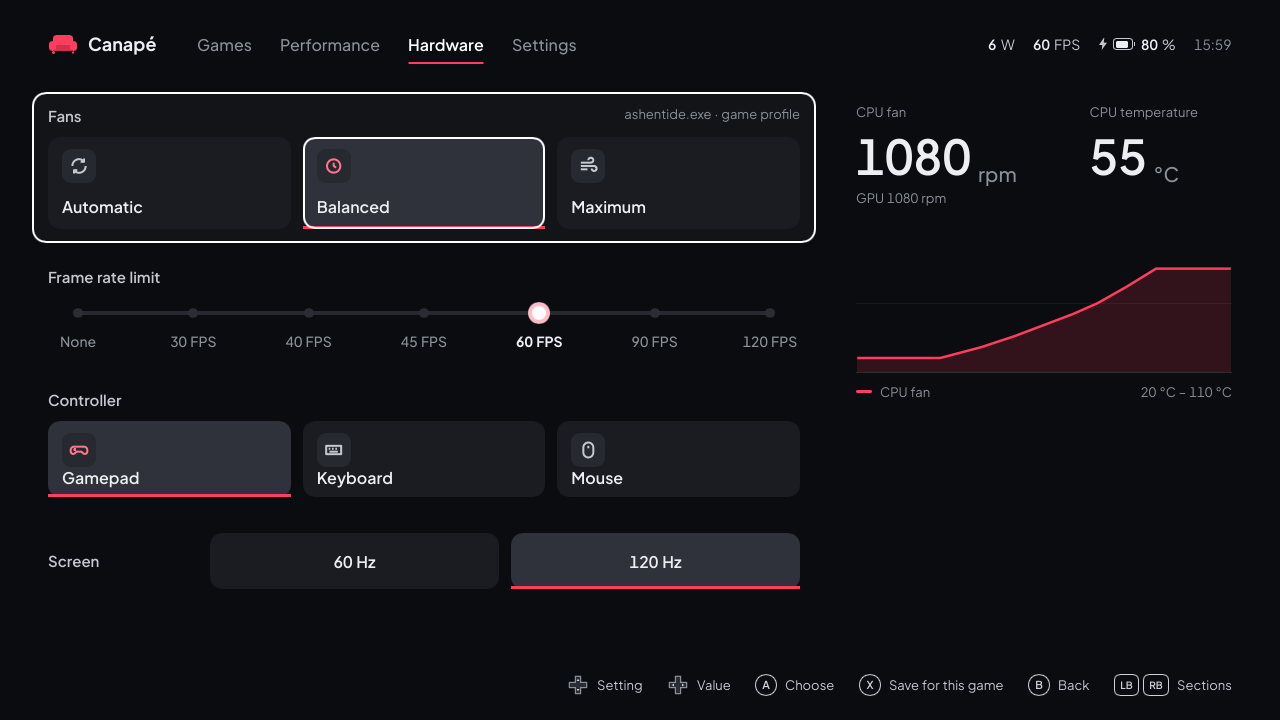
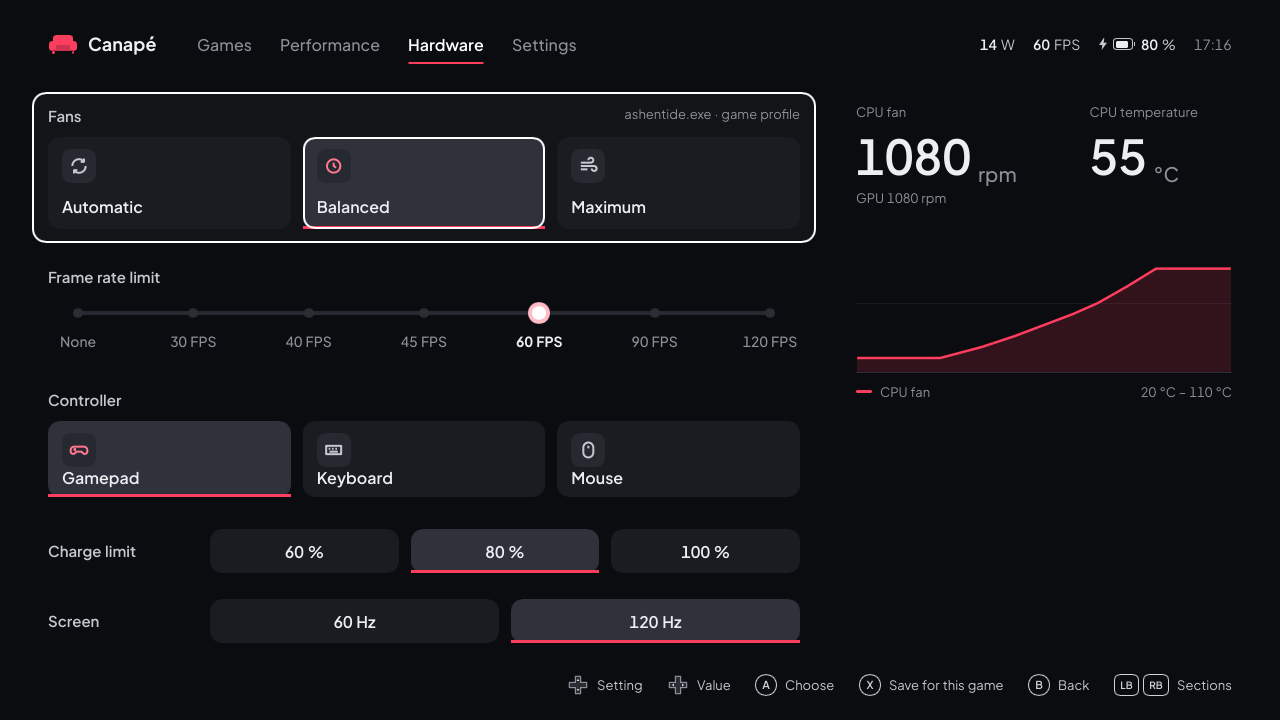
Show and set the battery charge limit in the shell and the widget
The status now carries the charge limit set through Canape
(battery_charge_limit, null until set: the firmware does not report it).
The Hardware page gains a compact row with 60, 80 and 100 % tiles; the
Screen row shrinks to the same height so the page still fits 1280x720.
The widget's Hardware tab gains a stepper over the same stops.

diff --git a/widget/CanapeWidget/WidgetPage.xaml b/widget/CanapeWidget/WidgetPage.xaml
@@ -369,7 +369,8 @@
                         </StackPanel>
                     </StackPanel>
 
-                    <!-- Hardware: fans, frame rate cap, controller, for the game in front. -->
+                    <!-- Hardware: fans, frame rate cap, controller, for the game in front;
+                         battery charge limit, for the device. -->
                     <StackPanel x:Name="HardwarePane" Spacing="10" Visibility="Collapsed">
                         <StackPanel Spacing="8">
                             <Grid>
@@ -432,6 +433,25 @@
                                 </TextBlock.RenderTransform>
                             </TextBlock>
                             <Button x:Name="LimitUp" Grid.Column="3" Style="{StaticResource Chevron}" Content="›" Tag="1" Click="OnLimitStep" IsEnabled="False" />
+                        </Grid>
+
+                        <Grid Height="40">
+                            <Grid.ColumnDefinitions>
+                                <ColumnDefinition Width="*" />
+                                <ColumnDefinition Width="Auto" />
+                                <ColumnDefinition Width="84" />
+                                <ColumnDefinition Width="Auto" />
+                            </Grid.ColumnDefinitions>
+                            <TextBlock x:Uid="ChargeLimitLabel" FontSize="14" VerticalAlignment="Center" TextTrimming="CharacterEllipsis" />
+                            <Button x:Name="ChargeDown" Grid.Column="1" Style="{StaticResource Chevron}" Content="‹" Tag="-1" Click="OnChargeStep" IsEnabled="False" />
+                            <TextBlock x:Name="ChargeValue" Grid.Column="2" Text="—" FontSize="15" FontFamily="{StaticResource JakartaSemiBold}" FontWeight="SemiBold"
+                                       Foreground="{StaticResource AccentTextBrush}" TextAlignment="Center" VerticalAlignment="Center"
+                                       Typography.NumeralAlignment="Tabular">
+                                <TextBlock.RenderTransform>
+                                    <TranslateTransform />
+                                </TextBlock.RenderTransform>
+                            </TextBlock>
+                            <Button x:Name="ChargeUp" Grid.Column="3" Style="{StaticResource Chevron}" Content="›" Tag="1" Click="OnChargeStep" IsEnabled="False" />
                         </Grid>
 
                         <StackPanel Spacing="8">

diff --git a/widget/CanapeWidget/WidgetPage.xaml.cs b/widget/CanapeWidget/WidgetPage.xaml.cs
@@ -37,6 +37,9 @@ namespace CanapeWidget
         // Stops of the frame rate cap, as on the shell's Hardware page; 0 is none.
         private static readonly int[] LimitStops = { 0, 30, 40, 45, 60, 90, 120 };
 
+        // Stops of the battery charge limit, as on the shell's Hardware page.
+        private static readonly int[] ChargeStops = { 60, 80, 100 };
+
         // Opens the shell (see the identity package's canape protocol).
         private static readonly Uri ShellUri = new Uri("canape://home");
 
@@ -314,6 +317,9 @@ namespace CanapeWidget
             LimitValue.Text = Dash;
             LimitDown.IsEnabled = false;
             LimitUp.IsEnabled = false;
+            ChargeValue.Text = Dash;
+            ChargeDown.IsEnabled = false;
+            ChargeUp.IsEnabled = false;
             ShowSaveButtons(false);
             StepLabel.Text = S("PowerLimitLabel");
             StepValue.Text = Dash;
@@ -699,7 +705,7 @@ namespace CanapeWidget
             ConflictText.Text = conflicts.Length > 0 ? F(conflicts.Length == 1 ? "ConflictOne" : "Conflicts", string.Join(", ", conflicts)) : "";
         }
 
-        /// <summary>Fans, frame rate cap and controller, as the service has them.</summary>
+        /// <summary>Fans, frame rate cap, controller and charge limit, as the service has them.</summary>
         private void ShowHardware(JsonObject status)
         {
             // No custom curve: the firmware's own (Auto). Custom curves that
@@ -720,6 +726,12 @@ namespace CanapeWidget
             Bump(LimitValue, limit > 0 ? F("FormatFps", limit) : S("FpsLimitNone"));
             LimitDown.IsEnabled = limit > 0;
             LimitUp.IsEnabled = limit < LimitStops[LimitStops.Length - 1];
+
+            // Unknown until set through Canape: the firmware does not report it.
+            var charge = Integer(status, "battery_charge_limit");
+            Bump(ChargeValue, charge.HasValue ? F("FormatPercent", charge.Value) : Dash);
+            ChargeDown.IsEnabled = (charge ?? ChargeStops[ChargeStops.Length - 1]) > ChargeStops[0];
+            ChargeUp.IsEnabled = charge.HasValue && charge.Value < ChargeStops[ChargeStops.Length - 1];
 
             var controller = Text(status, "controller_mode");
             foreach (var button in new[] { GamepadButton, KeyboardButton, MouseButton })
@@ -866,6 +878,20 @@ namespace CanapeWidget
                 : LimitStops.Where(t => t < limit).DefaultIfEmpty(0).Last();
             var request = Request("set_fps_limit");
             request["fps"] = next > 0 ? JsonValue.CreateNumberValue(next) : JsonValue.CreateNullValue();
+            Send(request);
+        }
+
+        /// <summary>‹ or ›: the next stop of the battery charge limit.</summary>
+        private void OnChargeStep(object sender, RoutedEventArgs e)
+        {
+            var delta = int.Parse((string)((FrameworkElement)sender).Tag, CultureInfo.InvariantCulture);
+            var top = ChargeStops[ChargeStops.Length - 1];
+            var charge = Integer(lastStatus, "battery_charge_limit") ?? top;
+            var next = delta > 0
+                ? ChargeStops.Where(t => t > charge).DefaultIfEmpty(top).First()
+                : ChargeStops.Where(t => t < charge).DefaultIfEmpty(ChargeStops[0]).Last();
+            var request = Request("set_battery_charge_limit");
+            request["percent"] = JsonValue.CreateNumberValue(next);
             Send(request);
         }
 

diff --git a/crates/canape-core/src/protocol.rs b/crates/canape-core/src/protocol.rs
@@ -171,6 +171,9 @@ pub struct Status {
     pub fps_limit: Option<u32>,
     #[serde(default)]
     pub controller_mode: Option<ControllerMode>,
+    /// Battery charge limit set through Canape, in percent, if any.
+    #[serde(default)]
+    pub battery_charge_limit: Option<u8>,
 }
 
 /// What [`Request::SaveForegroundProfile`] saves.
@@ -261,6 +264,7 @@ mod tests {
         assert_eq!(status.tdp_min_watts, None);
         assert!(status.fan_curves.is_empty());
         assert_eq!(status.controller_mode, None);
+        assert_eq!(status.battery_charge_limit, None);
     }
 
     #[test]
@@ -273,6 +277,7 @@ mod tests {
             cpu_fan_rpm: Some(3200),
             fps_limit: Some(40),
             controller_mode: Some(ControllerMode::Gamepad),
+            battery_charge_limit: Some(80),
             ..Status::default()
         });
         let line = encode(&response).unwrap();

diff --git a/crates/canape-service/src/handler.rs b/crates/canape-service/src/handler.rs
@@ -428,6 +428,7 @@ impl Handler {
             fan_preset: FanPreset::of(&self.fan_curves),
             fps_limit: self.fps_limit,
             controller_mode: self.controller_mode,
+            battery_charge_limit: self.battery_limit,
         }
     }
 
@@ -1009,6 +1010,17 @@ mod tests {
         let mut restored = handler();
         assert!(restored.restore(&saved).is_empty());
         assert_eq!(restored.saved(), saved);
+        assert_eq!(restored.status().battery_charge_limit, Some(80));
+    }
+
+    #[test]
+    fn rejects_a_charge_limit_out_of_range() {
+        let mut h = handler();
+        assert!(matches!(
+            h.handle(Request::SetBatteryChargeLimit { percent: 20 }),
+            Response::Error { .. }
+        ));
+        assert_eq!(h.status().battery_charge_limit, None);
     }
 
     #[test]

diff --git a/crates/canape-shell/src/main.rs b/crates/canape-shell/src/main.rs
@@ -358,6 +358,14 @@ fn connect(ui: &AppWindow, link: &Link) {
             link.send(Request::SetControllerMode { mode });
         }
     });
+    app.on_set_charge_limit({
+        let link = link.clone();
+        move |percent| {
+            link.send(Request::SetBatteryChargeLimit {
+                percent: percent.clamp(40, 100) as u8,
+            })
+        }
+    });
     app.on_save_hardware_profile({
         let link = link.clone();
         move || {

diff --git a/crates/canape-shell/src/link.rs b/crates/canape-shell/src/link.rs
@@ -429,6 +429,7 @@ pub fn status_view(status: Option<&Status>) -> StatusView {
             None => "",
         }
         .into(),
+        charge_limit: s.battery_charge_limit.map_or(0, i32::from),
     }
 }
 

diff --git a/docs/developer-guide.fr.md b/docs/developer-guide.fr.md
@@ -185,9 +185,10 @@ La page 3 (`ui/hardware.slint`) ne fait qu'envoyer des requêtes : le service va
 | Garder ces réglages pour ce jeu | `save-hardware-profile()` | `save_profile` pour `status.foreground` : le profil existant (ou un nouveau avec `status.auto_tdp`) avec `fan_curves: Some(status.fan_curves)` (un ensemble vide veut dire « les courbes du firmware » pour ce jeu), `fps_limit: status.fps_limit` et `refresh_hz` (la fréquence actuelle de l'écran) |
 | Puces de l'écran | `set-refresh(hz)` | aucune : le shell change l'écran lui-même (`screen.rs`, `canape_hw::display::Screen`) et enregistre `refresh_hz` dans `shell.json` |
 | Tuiles de la manette | `set-controller(mode)` | `set_controller_mode` |
+| Puces de la limite de charge | `set-charge-limit(percent)` | `set_battery_charge_limit` ; puces 60, 80, 100 |
 
 - `hardware.rs` : `preset_name()` traduit `status.fan_curves` en tuile sélectionnée : `""` si vide (courbes du firmware), la clé d'un préréglage si chaque courbe personnalisée lui est égale, `custom` sinon. `curve_paths()` transforme la courbe du CPU en commandes `Path` de la ligne et de l'aire du cadre (viewbox 90 × 100 : une unité par °C de 20 à 110 °C, une par pour cent), prolongée à plat avant le premier point et après le dernier. Les deux sont couvertes par des tests unitaires.
-- `link.rs` (`status_view`) : `cpu_fan_rpm` / `gpu_fan_rpm` (−1 si inconnus), le nom du préréglage, les chemins de la courbe du CPU (vides sans courbe CPU personnalisée), `fps_limit` (0 pour aucune) et `controller_mode` (`""` tant que Canapé ne l'a pas réglé, donc aucune tuile sélectionnée). `tdp_floor()` / `tdp_ceiling()` lisent `tdp_min_watts` / `tdp_max_watts` (repli sur `MIN_WATTS` 5 et `MAX_WATTS` 35 dans `main.rs`) et bornent tous les réglages de puissance du shell.
+- `link.rs` (`status_view`) : `cpu_fan_rpm` / `gpu_fan_rpm` (−1 si inconnus), le nom du préréglage, les chemins de la courbe du CPU (vides sans courbe CPU personnalisée), `fps_limit` (0 pour aucune), `controller_mode` (`""` tant que Canapé ne l'a pas réglé, donc aucune tuile sélectionnée) et `battery_charge_limit` (0 tant que Canapé ne l'a pas réglée, de même). `tdp_floor()` / `tdp_ceiling()` lisent `tdp_min_watts` / `tdp_max_watts` (repli sur `MIN_WATTS` 5 et `MAX_WATTS` 35 dans `main.rs`) et bornent tous les réglages de puissance du shell.
 - La page Profils et le bouton **Profil du jeu** du banc d'essai conservent les `fan_curves`, `fps_limit` et `refresh_hz` d'un profil existant.
 - **Fréquence de l'écran** (`screen.rs`) : les modes d'affichage appartiennent à la session de l'utilisateur, c'est donc le shell, pas le service, qui les change. `canape_hw::display::Screen::internal()` retient le chemin actif dont la technologie de sortie est interne ou DisplayPort intégré (`QueryDisplayConfig`, puis le nom GDI de la source), `rates()` liste les fréquences à la résolution et à la profondeur actuelles (`EnumDisplaySettingsExW`), `set_refresh()` appelle `ChangeDisplaySettingsExW` avec `CDS_UPDATEREGISTRY`. Le service ne fait que stocker `Profile::refresh_hz` ; à chaque statut, le shell cherche la fréquence du profil actif et `screen::follow` ne change l'écran qu'au changement de profil (`Follow::step`, testé) : entrer dans un profil mémorise la fréquence remplacée, en sortir revient à la fréquence choisie sur la page (`refresh_hz` de `shell.json`, 0 = aucune) ou à celle mémorisée. La page relit la fréquence actuelle tous les 5 statuts. Hors Windows, `CANAPE_MOCK_SCREEN=60,120` simule un écran pour les captures.
 - **Boutons de l'Ally** (`buttons.rs`, Windows) : un thread lance `canape_hw::listen_buttons`, qui ouvre la même interface HID que le mode de la manette (VID `0x0B05`, PID `0x1ABE`/`0x1B4C`, rapport de fonctionnalité `0x5A`), envoie le rapport de réveil, puis lit les rapports d'entrée : code 166 Command Center, 56 ou 147 Armoury, 165 / 0 palettes arrière enfoncées / relâchées, 236 ignoré (`pad::parse_input`, testé). Armoury → `instance::bring_to_front()` (un appui Alt synthétique, puis `SetForegroundWindow`), ou la section Jeux si Canapé est déjà devant ; Command Center → Win+G (`SendInput`). Les codes inconnus sont journalisés. Après une erreur, le thread réessaie toutes les 5 s, toutes les 60 s quand aucune interface n'existe. `ally_buttons: false` dans `shell.json` désactive les actions.
@@ -273,7 +274,7 @@ sequenceDiagram
 | `set_performance_mode` | `mode` : `silent` \| `performance` \| `turbo` \| `manual` | `ok` / `error` | Désactive l'auto TDP. Un mode firmware remet `tdp_watts` à `null`. Le firmware abandonne les courbes de ventilateurs personnalisées à chaque écriture du mode : le service les réécrit (une courbe qu'il ne peut pas réécrire est oubliée). Refusé pendant un banc d'essai. |
 | `set_tdp` | `watts: u32` | `ok` / `error` | TDP manuel (sPPT, SPL, fPPT), mode `manual`, auto TDP désactivé. Refusé hors de la plage du modèle et pendant un banc d'essai. |
 | `set_auto_tdp` | `settings: AutoTdpSettings` | `ok` / `error` | Active (ou désactive avec `enabled: false`) l'auto TDP. `min_watts`, `max_watts` et `battery_max_watts` sont bornés à la plage du modèle ; le statut et le profil gardent les valeurs bornées. Pendant un profil, modifie le profil. Refusé pendant un banc d'essai. |
-| `set_battery_charge_limit` | `percent: u8` (40 à 100) | `ok` / `error` | Limite de charge de la batterie. |
+| `set_battery_charge_limit` | `percent: u8` (40 à 100) | `ok` / `error` | Limite de charge de la batterie. Enregistrée et réappliquée au démarrage ; visible dans `status.battery_charge_limit`. Globale, pas par profil. **Non testé sur l'appareil.** |
 | `foreground_app` | `exe: string \| null` | `ok` | Programme au premier plan (envoyé par le shell) ; applique ou quitte le profil correspondant. |
 | `save_profile` | `profile: Profile` | `ok` / `error` | Crée ou remplace le profil de `profile.exe` (casse ignorée) ; le réapplique s'il est actif. |
 | `delete_profile` | `exe: string` | `ok` | Supprime le profil ; rend la main à l'état général s'il était actif. |
@@ -372,6 +373,7 @@ Exemples :
 | `fan_curves` | `FanCurves` | Courbes personnalisées en vigueur (globales ou du profil actif) ; un ventilateur à `null` suit la courbe du mode. |
 | `fps_limit` | `u32 \| null` | Plafond de FPS posé par Canapé (`null` : aucun posé par Canapé ; le logiciel AMD peut en avoir un). |
 | `controller_mode` | `string \| null` | `gamepad`, `wasd`, `mouse`, ou `null` si Canapé ne l'a pas réglé. |
+| `battery_charge_limit` | `u8 \| null` | Limite de charge en pour cent, ou `null` si Canapé ne l'a pas réglée (le firmware ne la donne pas). Facultatif en entrée. |
 
 ### Types imbriqués
 

diff --git a/docs/developer-guide.en.md b/docs/developer-guide.en.md
@@ -185,9 +185,10 @@ Page 3 (`ui/hardware.slint`) only sends requests: the service validates and writ
 | Keep these settings for this game | `save-hardware-profile()` | `save_profile` for `status.foreground`: the existing profile (or a new one with `status.auto_tdp`) with `fan_curves: Some(status.fan_curves)` (an empty set means "the firmware's curves" for that game), `fps_limit: status.fps_limit` and `refresh_hz` (the screen's current rate) |
 | Screen chips | `set-refresh(hz)` | none: the shell switches the screen itself (`screen.rs`, `canape_hw::display::Screen`) and saves `refresh_hz` in `shell.json` |
 | Controller tiles | `set-controller(mode)` | `set_controller_mode` |
+| Charge limit chips | `set-charge-limit(percent)` | `set_battery_charge_limit`; chips 60, 80, 100 |
 
 - `hardware.rs`: `preset_name()` maps `status.fan_curves` to the selected tile: `""` when empty (firmware curves), a preset key when every custom curve equals that preset, `custom` otherwise. `curve_paths()` turns the CPU curve into the line and area `Path` commands of the panel (viewbox 90 × 100: one unit per °C from 20 to 110 °C, one per percent), held flat before the first and after the last point. Both are unit-tested.
-- `link.rs` (`status_view`): `cpu_fan_rpm` / `gpu_fan_rpm` (−1 when unknown), the preset name, the CPU curve paths (empty without a custom CPU curve), `fps_limit` (0 for none) and `controller_mode` (`""` when Canapé has not set it, so no tile is selected). `tdp_floor()` / `tdp_ceiling()` read `tdp_min_watts` / `tdp_max_watts` (fallback `MIN_WATTS` 5 and `MAX_WATTS` 35 in `main.rs`) and bound every wattage stepper of the shell.
+- `link.rs` (`status_view`): `cpu_fan_rpm` / `gpu_fan_rpm` (−1 when unknown), the preset name, the CPU curve paths (empty without a custom CPU curve), `fps_limit` (0 for none), `controller_mode` (`""` when Canapé has not set it, so no tile is selected) and `battery_charge_limit` (0 when Canapé has not set it, likewise). `tdp_floor()` / `tdp_ceiling()` read `tdp_min_watts` / `tdp_max_watts` (fallback `MIN_WATTS` 5 and `MAX_WATTS` 35 in `main.rs`) and bound every wattage stepper of the shell.
 - The Profiles page and the bench's **Save for the game** keep the `fan_curves`, `fps_limit` and `refresh_hz` of an existing profile.
 - **Screen refresh rate** (`screen.rs`): display modes belong to the user's session, so the shell, not the service, switches them. `canape_hw::display::Screen::internal()` picks the active path whose output technology is internal or embedded DisplayPort (`QueryDisplayConfig`, then the source's GDI name), `rates()` lists the rates at the current resolution and depth (`EnumDisplaySettingsExW`), `set_refresh()` calls `ChangeDisplaySettingsExW` with `CDS_UPDATEREGISTRY`. `Profile::refresh_hz` is only stored by the service; at each status push the shell looks up the active profile's rate and `screen::follow` switches on a change of profile only (`Follow::step`, unit-tested): entering a profile remembers the rate it replaces, leaving it goes back to the rate picked on the page (`shell.json` `refresh_hz`, 0 = none) or to that remembered rate. The page re-reads the current rate every 5 pushes. Off Windows, `CANAPE_MOCK_SCREEN=60,120` fakes a screen for screenshots.
 - **Ally buttons** (`buttons.rs`, Windows): a thread runs `canape_hw::listen_buttons`, which opens the same HID interface as the controller mode (VID `0x0B05`, PID `0x1ABE`/`0x1B4C`, feature report `0x5A`), sends the wake-up report, then reads input reports: code 166 Command Center, 56 or 147 Armoury, 165 / 0 back paddles down / up, 236 ignored (`pad::parse_input`, unit-tested). Armoury → `instance::bring_to_front()` (a synthetic Alt tap, then `SetForegroundWindow`) or the Games section when already in front; Command Center → Win+G (`SendInput`). Unknown codes are logged. After an error the thread retries every 5 s, every 60 s when no interface exists. `shell.json` `ally_buttons: false` turns the actions off.
@@ -273,7 +274,7 @@ sequenceDiagram
 | `set_performance_mode` | `mode`: `silent` \| `performance` \| `turbo` \| `manual` | `ok` / `error` | Turns auto TDP off. A firmware mode resets `tdp_watts` to `null`. The firmware drops custom fan curves on a mode write: the service writes them again (a curve it cannot write again is forgotten). Rejected during a bench. |
 | `set_tdp` | `watts: u32` | `ok` / `error` | Manual TDP (sPPT, SPL, fPPT), `manual` mode, auto TDP off. Rejected outside the model's range and during a bench. |
 | `set_auto_tdp` | `settings: AutoTdpSettings` | `ok` / `error` | Turns auto TDP on (or off with `enabled: false`). `min_watts`, `max_watts` and `battery_max_watts` are clamped to the model's range; the status and the profile keep the clamped values. During a profile, changes the profile. Rejected during a bench. |
-| `set_battery_charge_limit` | `percent: u8` (40 to 100) | `ok` / `error` | Battery charge limit. |
+| `set_battery_charge_limit` | `percent: u8` (40 to 100) | `ok` / `error` | Battery charge limit. Saved and re-applied at startup; shown in `status.battery_charge_limit`. Global, not per profile. **Not tested on the device.** |
 | `foreground_app` | `exe: string \| null` | `ok` | Foreground program (sent by the shell); applies or leaves the matching profile. |
 | `save_profile` | `profile: Profile` | `ok` / `error` | Creates or replaces the profile for `profile.exe` (case-insensitive); re-applies it if active. |
 | `delete_profile` | `exe: string` | `ok` | Deletes the profile; hands back to the global state if it was active. |
@@ -372,6 +373,7 @@ Examples:
 | `fan_curves` | `FanCurves` | Custom curves in effect (global or the active profile's); a `null` fan follows the mode's curve. |
 | `fps_limit` | `u32 \| null` | Frame rate cap set through Canapé (`null`: none set by Canapé; the AMD software may still have one). |
 | `controller_mode` | `string \| null` | `gamepad`, `wasd`, `mouse`, or `null` if Canapé has not set it. |
+| `battery_charge_limit` | `u8 \| null` | Charge limit in percent, or `null` if Canapé has not set it (the firmware does not report it). Optional on input. |
 
 ### Nested types
 

diff --git a/docs/user-guide.fr.md b/docs/user-guide.fr.md
@@ -277,7 +277,7 @@ Le fonctionnement détaillé est dans [Auto TDP et banc d'essai](auto-tdp.fr.md)
 
 > [!NOTE]
 
-Quatre rangées, parcourues comme la page Performance : haut et bas changent de rangée, gauche et droite se déplacent dans les tuiles (A choisit) ou changent la limite de FPS tout de suite, **X** enregistre les ventilateurs, la limite de FPS et la fréquence de l'écran pour le jeu au premier plan (voir [Ce jeu](#ce-jeu)). À droite : la vitesse du ventilateur CPU (et celle du GPU en dessous), en tr/min, la température CPU (avec la limite de température si elle est réglée) et la courbe du ventilateur CPU. « — » quand le firmware ne donne pas de mesure.
+Cinq rangées, parcourues comme la page Performance : haut et bas changent de rangée, gauche et droite se déplacent dans les tuiles (A choisit) ou changent la limite de FPS tout de suite, **X** enregistre les ventilateurs, la limite de FPS et la fréquence de l'écran pour le jeu au premier plan (voir [Ce jeu](#ce-jeu)). À droite : la vitesse du ventilateur CPU (et celle du GPU en dessous), en tr/min, la température CPU (avec la limite de température si elle est réglée) et la courbe du ventilateur CPU. « — » quand le firmware ne donne pas de mesure.
 
 **Ventilateurs**
 
@@ -323,6 +323,13 @@ Le mode est général (pas par jeu), mémorisé et réappliqué au démarrage du
 
 > [!WARNING]
 > Canapé lit la manette en XInput. En mode Clavier ou Souris, la manette ne devrait plus se présenter comme une manette Xbox, et Canapé risque de ne plus lui répondre : revenez à **Manette de jeu** avec l'écran tactile, ou avec `canape-ctl` (voir [Dépannage](#canape-ctl--parler-au-service)).
+
+**Limite de charge**
+
+Trois tuiles : 60, 80 et 100 %. La batterie s'arrête de charger à ce niveau, même branchée : une console qui vit sur son chargeur garde une batterie en meilleure santé à 60 ou 80 %. **100 %** retire la limite. La limite est générale (pas par jeu), mémorisée et réappliquée au démarrage du service. Canapé ne peut pas la relire dans le firmware : aucune tuile n'est sélectionnée tant que Canapé ne l'a pas réglée une fois (une limite réglée ailleurs, ou une autre valeur réglée avec `canape-ctl`, n'en sélectionne aucune).
+
+> [!NOTE]
+> Pas encore essayé sur l'Ally : l'écriture dans le firmware (`set_battery_charge_limit`) n'a été testée qu'avec le simulateur.
 
 **Écran**
 
@@ -436,7 +443,7 @@ Le widget donne les réglages rapides sans quitter le jeu. Toute la logique rest
 | Graphe | La dernière minute : la consommation en couleur d'accent, la limite en pointillés gris. |
 | Banc d'essai | Palier, puissance et temps restant pendant un banc d'essai (lancé depuis le shell). |
 | Onglet **Puissance** | Mode (Silencieux, Performance, Turbo, Auto ; la tuile choisie est blanche, un mode firmware coupe l'auto TDP). La valeur ‹ › : en auto TDP l'**objectif** (30 à 120 FPS), sinon la **limite de puissance** ±1 W, grisée en mode firmware et bornée par la plage du modèle. La plage de puissance sur l'échelle du modèle, avec la consommation du moment (lecture seule). |
-| Onglet **Matériel** | Ventilateurs : Auto (la courbe du firmware), Équilibré, Maximum ; « Courbes personnalisées » quand d'autres courbes sont en place. La limite de FPS ‹ › (Aucune, 30 à 120). La manette : Manette, Clavier, Souris. |
+| Onglet **Matériel** | Ventilateurs : Auto (la courbe du firmware), Équilibré, Maximum ; « Courbes personnalisées » quand d'autres courbes sont en place. La limite de FPS ‹ › (Aucune, 30 à 120). La manette : Manette, Clavier, Souris. La limite de charge de la batterie ‹ › (60, 80, 100 % ; « — » tant que Canapé ne l'a pas réglée, pas encore essayé sur l'Ally). |
 | Pied, toujours visible | **Enregistrer pour ce jeu** : l'onglet affiché dans le profil du jeu au premier plan (Puissance : l'auto TDP actuel ; Matériel : ventilateurs et limite de FPS ; le reste du profil est gardé). **Ouvrir Canapé**, qui ramène le shell devant. |
 
 Le widget n'a ni bouton de banc d'essai, ni liste des profils, ni réglage de la plage de puissance ou de la fréquence de l'écran : ces actions restent dans le shell. Son panneau suit le réglage de transparence de la Game Bar, et le widget suit la couleur d'accent choisie dans le shell. Taille par défaut 400 × 600, redimensionnable.

diff --git a/docs/user-guide.en.md b/docs/user-guide.en.md
@@ -277,7 +277,7 @@ How it works in detail: [Auto TDP and bench](auto-tdp.en.md).
 
 > [!NOTE]
 
-Four rows, used like the Performance page: up and down change row, left and right move along the tiles (A picks) or change the frame rate limit at once, **X** saves the fans, the frame rate limit and the screen refresh rate for the game in the foreground (see [This game](#this-game)). On the right: the CPU fan speed (and the GPU fan's below it), in rpm, the CPU temperature (with the temperature limit when set) and the CPU fan's curve. "—" when the firmware gives no reading.
+Five rows, used like the Performance page: up and down change row, left and right move along the tiles (A picks) or change the frame rate limit at once, **X** saves the fans, the frame rate limit and the screen refresh rate for the game in the foreground (see [This game](#this-game)). On the right: the CPU fan speed (and the GPU fan's below it), in rpm, the CPU temperature (with the temperature limit when set) and the CPU fan's curve. "—" when the firmware gives no reading.
 
 **Fans**
 
@@ -323,6 +323,13 @@ The mode is global (not per game), remembered and re-applied when the service st
 
 > [!WARNING]
 > Canapé reads the gamepad through XInput. In Keyboard or Mouse mode the controller should no longer show up as an Xbox gamepad, so Canapé may stop answering it: come back to **Gamepad** with the touch screen, or with `canape-ctl` (see [Troubleshooting](#canape-ctl-talking-to-the-service)).
+
+**Charge limit**
+
+Three tiles: 60, 80 and 100 %. The battery stops charging at that level, even plugged in: a console that lives on its charger keeps a healthier battery at 60 or 80 %. **100 %** removes the limit. The limit is global (not per game), remembered and re-applied when the service starts. Canapé cannot read it back from the firmware: no tile is selected until Canapé has set it once (a limit set elsewhere, or another value set with `canape-ctl`, selects none).
+
+> [!NOTE]
+> Not tried on the Ally yet: the firmware write (`set_battery_charge_limit`) has only been tested with the simulator.
 
 **Screen**
 
@@ -436,7 +443,7 @@ The widget gives you the quick settings without leaving the game. All the logic 
 | Graph | The last minute: power draw in the accent colour, the limit dashed grey. |
 | Bench | Step, wattage and time left during a bench (started from the shell). |
 | **Power** tab | Mode (Silent, Performance, Turbo, Auto; the chosen tile is white, a firmware mode turns auto TDP off). The ‹ value ›: under auto TDP the **target** (30 to 120 FPS), otherwise the **power limit** ±1 W, greyed out in a firmware mode and bounded by the model's range. The power range on the model's scale, with the current draw (read-only). |
-| **Hardware** tab | Fans: Auto (the firmware's curve), Balanced, Maximum; "Custom curves" when other curves are in place. The frame rate limit ‹ › (None, 30 to 120). The controller: Gamepad, Keyboard, Mouse. |
+| **Hardware** tab | Fans: Auto (the firmware's curve), Balanced, Maximum; "Custom curves" when other curves are in place. The frame rate limit ‹ › (None, 30 to 120). The controller: Gamepad, Keyboard, Mouse. The battery charge limit ‹ › (60, 80, 100 %; "—" until Canapé has set it, not tried on the Ally yet). |
 | Footer, always in view | **Save for this game**: the tab in front into the foreground game's profile (Power: the current auto TDP; Hardware: fans and frame rate limit; the rest of the profile is kept). **Open Canapé**, which brings the shell to the front. |
 
 The widget has no bench button, no profile list, no power range or screen refresh setting: those stay in the shell. Its panel follows Game Bar's transparency setting, and the widget follows the accent colour picked in the shell. Default size 400 × 600, resizable.
